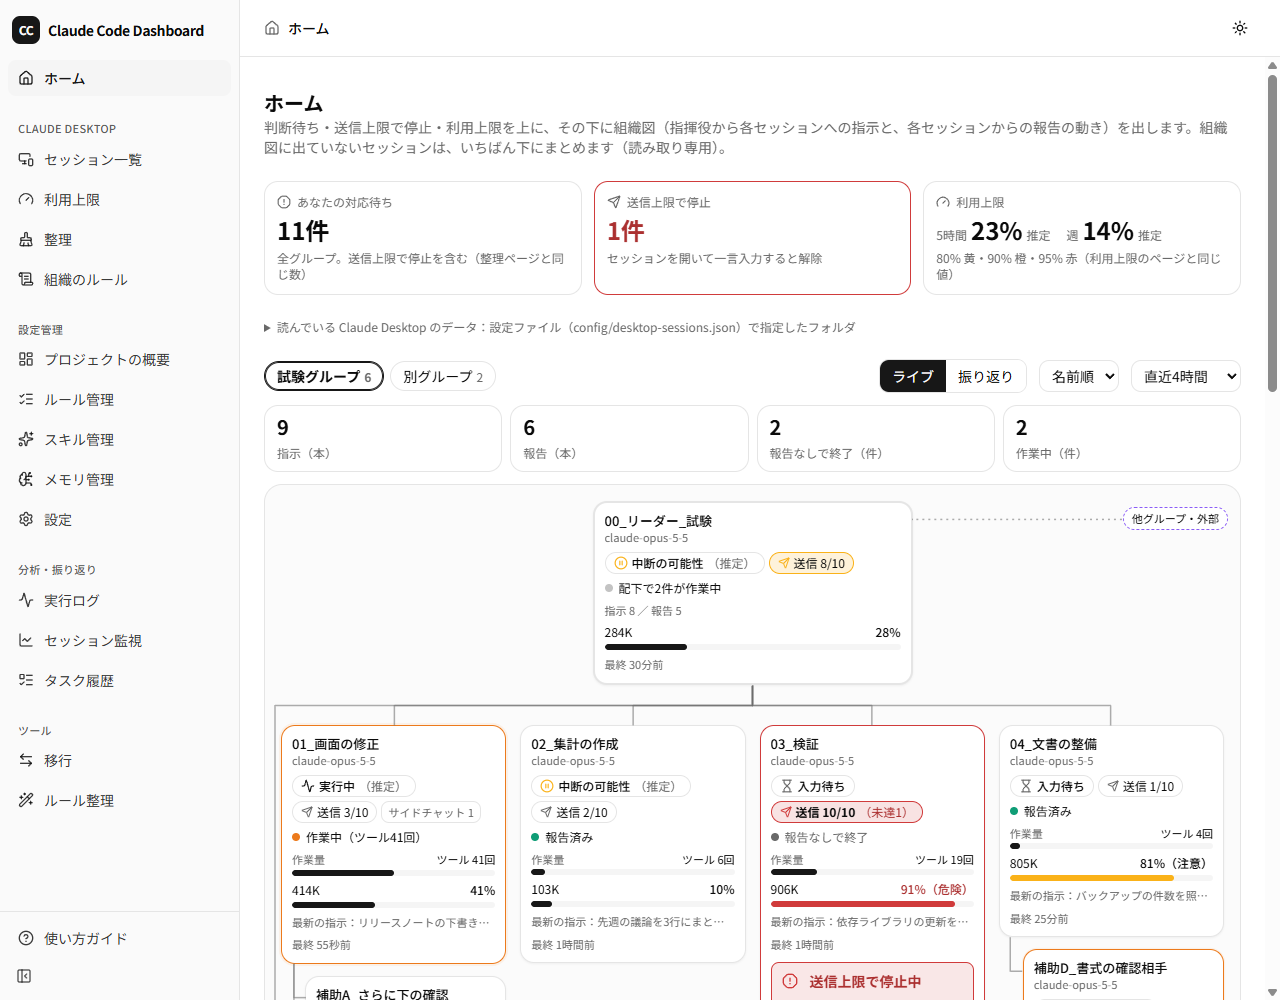
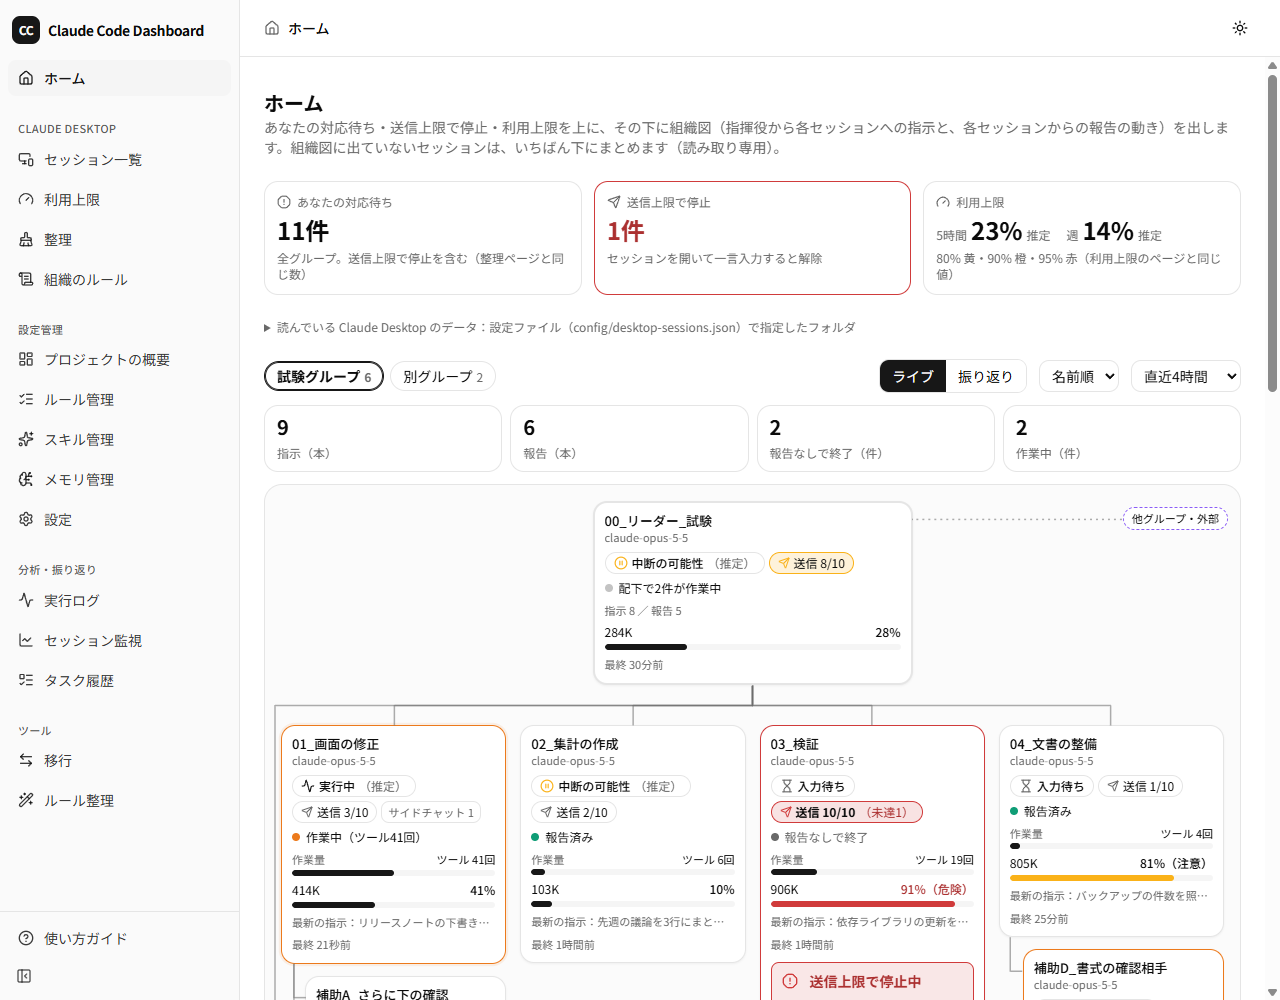
小さな直し：「待機中の入力」を「未処理の入力」に、ホームの説明を「あなたの対応待ち」に、退避のテストの時間切れを直す
- セッション一覧の行と詳細の「待機中の入力」を「未処理の入力」にし、CLI のバッジの説明も「入力待ち」にする（状態の「待機」とまぎれないように）
- サイドバーとホームの見出しの下の説明を、件数のカードの名前に合わせる
- 35回続けて退避するテスト2件に上限30秒を明示する（全体の実行で既定の5秒を超えて、ときどき落ちていた。本体は変えない）
- 変えた語が写る画像3枚を撮り直す

Changed region(s): [[0.1875, 0.124, 0.9688, 0.155]]

diff --git a/src/app/help/page.tsx b/src/app/help/page.tsx
@@ -167,7 +167,7 @@ const PAGE_GUIDES: PageGuide[] = [
     label: "セッション一覧",
     icon: MonitorSmartphone,
     description:
-      "Claude Desktopの全セッションを一覧し、どれが動いていて、どれが止まっているかを確認する（読み取り専用、5秒ごとに更新）。サイドバーの「Claude Desktop」には、このページのほかに「利用上限」「整理」「組織のルール」のページがあり、見たい内容ごとに分かれている（組織図はホームに出る）。状態（実行中・要対応〈許可待ち・承認待ち・判断待ち〉・待機・確認待ち・完了・中断の可能性・入力待ち）、モデル・エフォート、サイドバーのグループ、コンテキスト使用量、タスクリストの進み具合（実行中のステップ名）、最新の指示の先頭60文字（人／他セッション／通知を区別。起動直後は、会話ログの末尾だけを先に調べるため、人以外の指示が出ている間は「解析中」の印が付き、全体の解析が済むと人の指示に置き換わる）、要対応のセッションには要対応の内容の先頭60文字を表示する。「一覧」「グループ別」の切替と、状態・グループ・モデル・作業フォルダの絞り込みができる。「要対応・確認待ち・完了」はDesktopがターン後に付けた分類、「実行中」「中断の可能性」は会話ログの更新状況からの推定。コンテキスト使用量の上限は記録されていないため、モデルごとの仮置き値で割っている。行を押すとタスクリスト全体と、セッション監視への診断リンクが開く。ページ上部のスイッチで、デスクトップ通知（新しく要対応になったとき・利用上限が80%・95%を超えたとき・送信上限で止まったとき）をオンにできる（初期値はオフ。exeはOSの通知、ブラウザはブラウザの通知の許可が必要。外部のサービスは使わず、通知にはセッション名と要対応の内容の抜粋だけを出す。同じセッションの同じ状態では1回だけ通知し、起動直後にすでに要対応だったものは通知しない。通知をクリックすると、そのセッションの詳細が開く）。「CLIプロセスあり」は、claude.exeが--resumeでそのセッションを開いていることを表す。待機中のセッションでもプロセスは残るため、「実行中」とは別の情報。Desktopのデータが読めない場合は、会話ログだけの縮退表示に切り替わる。各セッションには、他のセッションへ送ったメッセージの数（送信 n/10。人が最後に入力してからの回数で、8回以上で黄、10回で赤）を表示し、上限で止まっているセッションは「送信上限で停止中」と赤で示す。",
+      "Claude Desktopの全セッションを一覧し、どれが動いていて、どれが止まっているかを確認する（読み取り専用、5秒ごとに更新）。サイドバーの「Claude Desktop」には、このページのほかに「利用上限」「整理」「組織のルール」のページがあり、見たい内容ごとに分かれている（組織図はホームに出る）。状態（実行中・要対応〈許可待ち・承認待ち・判断待ち〉・待機・確認待ち・完了・中断の可能性・入力待ち）、モデル・エフォート、サイドバーのグループ、コンテキスト使用量、タスクリストの進み具合（実行中のステップ名）、最新の指示の先頭60文字（人／他セッション／通知を区別。起動直後は、会話ログの末尾だけを先に調べるため、人以外の指示が出ている間は「解析中」の印が付き、全体の解析が済むと人の指示に置き換わる）、要対応のセッションには要対応の内容の先頭60文字を表示する。「一覧」「グループ別」の切替と、状態・グループ・モデル・作業フォルダの絞り込みができる。「要対応・確認待ち・完了」はDesktopがターン後に付けた分類、「実行中」「中断の可能性」は会話ログの更新状況からの推定。コンテキスト使用量の上限は記録されていないため、モデルごとの仮置き値で割っている。行を押すとタスクリスト全体と、セッション監視への診断リンクが開く。ページ上部のスイッチで、デスクトップ通知（新しく要対応になったとき・利用上限が80%・95%を超えたとき・送信上限で止まったとき）をオンにできる（初期値はオフ。exeはOSの通知、ブラウザはブラウザの通知の許可が必要。外部のサービスは使わず、通知にはセッション名と要対応の内容の抜粋だけを出す。同じセッションの同じ状態では1回だけ通知し、起動直後にすでに要対応だったものは通知しない。通知をクリックすると、そのセッションの詳細が開く）。「CLIプロセスあり」は、claude.exeが--resumeでそのセッションを開いていることを表す。入力待ちのセッションでもプロセスは残るため、「実行中」とは別の情報。Desktopのデータが読めない場合は、会話ログだけの縮退表示に切り替わる。各セッションには、他のセッションへ送ったメッセージの数（送信 n/10。人が最後に入力してからの回数で、8回以上で黄、10回で赤）を表示し、上限で止まっているセッションは「送信上限で停止中」と赤で示す。",
   },
   {
     href: "/desktop-sessions/usage",

diff --git a/src/lib/skillArchiveRetention.test.ts b/src/lib/skillArchiveRetention.test.ts
@@ -22,6 +22,11 @@ vi.mock("./fileIO", async (importOriginal) => {
 const cleanupDirs: string[] = []
 /** 90日より十分に古い時刻（2023年） */
 const OLD_TS = 1_700_000_000_000
+/**
+ * 35回続けて退避する2件の上限。フォルダの複製と削除を数百回行うため、全体の実行(ほかのテストと並列)では
+ * 1件で4〜5秒かかり、vitest の既定の5秒を超えて、ときどき落ちていた(単独では1.4秒)。
+ */
+const LOOP_TEST_TIMEOUT_MS = 30_000
 
 async function makeProject(): Promise<ProjectConfig> {
   const tmpDir = await fs.mkdtemp(path.join(os.tmpdir(), "ccd-skill-archive-retention-test-"))
@@ -78,7 +83,7 @@ describe("アーカイブの退避フォルダ(.ccd-backup.<epoch>)の整理", (
     // ほかのスキル・ほかのモデルの退避フォルダには触れない
     expect(await dirBackups(project, "Opus 5", "other-skill")).toHaveLength(40)
     expect(await dirBackups(project, "Sonnet 5", "my-skill")).toHaveLength(40)
-  })
+  }, LOOP_TEST_TIMEOUT_MS)
 
   it("残るのは新しい順。90日より古い退避は、直近5世代を除いて消える", async () => {
     const project = await makeProject()
@@ -131,7 +136,7 @@ describe("アーカイブの退避フォルダ(.ccd-backup.<epoch>)の整理", (
     expect(await dirBackups(project, "Opus 5", "my-skill", SWITCH_BACKUP_INFIX)).toHaveLength(30)
     expect(await dirBackups(project, "Opus 5", "other-skill", SWITCH_BACKUP_INFIX)).toHaveLength(40)
     await fs.access(path.join(project.path, "skills-archive", "Opus 5", "my-skill", "SKILL.md"))
-  })
+  }, LOOP_TEST_TIMEOUT_MS)
 
   it("切り替え先の自動退避が、整理で消える古さ（31世代目）でも、切り替え自体は成功する（整理は最後に行う）", async () => {
     const project = await makeProject()

diff --git a/src/components/desktopSessions/SessionRow.tsx b/src/components/desktopSessions/SessionRow.tsx
@@ -76,7 +76,7 @@ export function SessionRow({ session: s, highContextRatio, onSelect, parentTitle
                 <Badge
                   variant="outline"
                   className="shrink-0"
-                  title="claude.exe が --resume でこのセッションを開いています。待機中のセッションでもプロセスは残るため、「実行中」とは別の情報です"
+                  title="claude.exe が --resume でこのセッションを開いています。入力待ちのセッションでもプロセスは残るため、「実行中」とは別の情報です"
                 >
                   <SquareTerminal aria-hidden />
                   CLIプロセスあり
@@ -102,7 +102,7 @@ export function SessionRow({ session: s, highContextRatio, onSelect, parentTitle
               {s.permissionMode && <span>権限 {s.permissionMode}</span>}
               {s.completedTurns !== null && <span>{s.completedTurns}ターン</span>}
               <span>最終活動 {formatAgo(s.lastActivityAt)}</span>
-              {s.queuedInputs > 0 && <span>待機中の入力 {s.queuedInputs}件</span>}
+              {s.queuedInputs > 0 && <span>未処理の入力 {s.queuedInputs}件</span>}
             </div>
 
             {s.needsActionExcerpt && (

diff --git a/src/components/layout/navConfig.ts b/src/components/layout/navConfig.ts
@@ -46,7 +46,7 @@ export const NAV_GROUPS: NavGroup[] = [
         label: "ホーム",
         icon: Home,
         description:
-          "判断待ち・送信上限で停止・利用上限を上に、その下に組織図（指揮役から各セッションへの指示と、各セッションからの報告の動き）を出します。組織図に出ていないセッションは、いちばん下にまとめます（読み取り専用）。",
+          "あなたの対応待ち・送信上限で停止・利用上限を上に、その下に組織図（指揮役から各セッションへの指示と、各セッションからの報告の動き）を出します。組織図に出ていないセッションは、いちばん下にまとめます（読み取り専用）。",
       },
     ],
   },

diff --git a/src/app/page.tsx b/src/app/page.tsx
@@ -14,7 +14,7 @@ import { useSelectedSession } from "@/hooks/useSelectedSession"
 import { useUsage } from "@/hooks/useUsage"
 
 /**
- * ホーム(⑧)。上に件数の帯(判断待ち・送信上限で停止・利用上限)、その下に組織図、いちばん下に組織図に出ていないセッション。
+ * ホーム(⑧)。上に件数の帯(あなたの対応待ち・送信上限で停止・利用上限)、その下に組織図、いちばん下に組織図に出ていないセッション。
  * 件数の帯は一覧と利用上限の値だけで出し、組織図の出来事の読み込みを待たない。
  * 選んでいるプロジェクトは使わない(上のバーにプロジェクトの切り替えは出さない)。
  */

diff --git a/src/components/desktopSessions/SessionDetailDialog.tsx b/src/components/desktopSessions/SessionDetailDialog.tsx
@@ -91,7 +91,7 @@ export function SessionDetailDialog({ sessionId, highContextRatio, onClose }: Se
                   ? "解析中"
                   : `${detail.compactionCount}回${detail.lastCompactionAt ? `（直近 ${formatAgo(detail.lastCompactionAt)}）` : ""}`}
               </Field>
-              <Field label="待機中の入力">{detail.queuedInputs}件</Field>
+              <Field label="未処理の入力">{detail.queuedInputs}件</Field>
               <Field label="他のセッションへの送信（人の最後の入力から）">
                 {detail.messaging ? (
                   <span title="人が最後に入力してから、他のセッションへ送った回数（届かなかった送信を含む）">

diff --git a/src/lib/desktopSessionTypes.ts b/src/lib/desktopSessionTypes.ts
@@ -160,7 +160,7 @@ export interface DesktopSessionSummary {
   messaging: DesktopSessionMessaging | null
   /**
    * claude.exe が `--resume=<セッションID>` でこのセッションを開いているか。「実行中」とは別の情報
-   * (待機中のセッションでもプロセスは残る)。running: プロセスあり / none: 無し / unknown: 取得できていない
+   * (入力待ちのセッションでもプロセスは残る)。running: プロセスあり / none: 無し / unknown: 取得できていない
    * (Windows以外・取得に失敗・初回の取得前)。
    */
   cliProcess: "running" | "none" | "unknown"

diff --git a/src/lib/desktopSessionService.test.ts b/src/lib/desktopSessionService.test.ts
@@ -548,7 +548,7 @@ describe("起動中のCLIプロセスの確認(段階2)", () => {
     const b = list.sessions.find((x) => x.title === "セッション2")!
     expect(a.cliProcess).toBe("running")
     expect(b.cliProcess).toBe("none")
-    // プロセスが残っていても、動いているとは限らない(待機中でもプロセスは残る)。状態は従来どおり
+    // プロセスが残っていても、動いているとは限らない(入力待ちでもプロセスは残る)。状態は従来どおり
     expect(a.status).toBe("completed")
     expect((await svc.detail(fakeSessionId(1)))?.cliProcess).toBe("running")
   })

diff --git a/src/lib/transcriptDigest.test.ts b/src/lib/transcriptDigest.test.ts
@@ -190,7 +190,7 @@ describe("コンテキスト・状態の手がかり", () => {
     expect(d.context?.tokens).toBe(200)
   })
 
-  it("圧縮の回数・直近の時刻と、待機中の入力の数を数える", () => {
+  it("圧縮の回数・直近の時刻と、未処理の入力の数を数える", () => {
     const d = digestOf([compactRow(tsAt(1)), compactRow(tsAt(5)), queueRow("enqueue"), queueRow("enqueue"), queueRow("dequeue")])
     expect(d.compactionCount).toBe(2)
     expect(d.lastCompactionAt).toBe(Date.parse(tsAt(5)))
